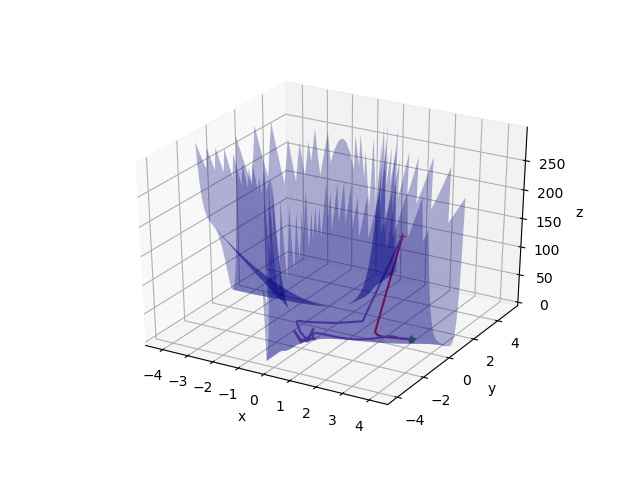
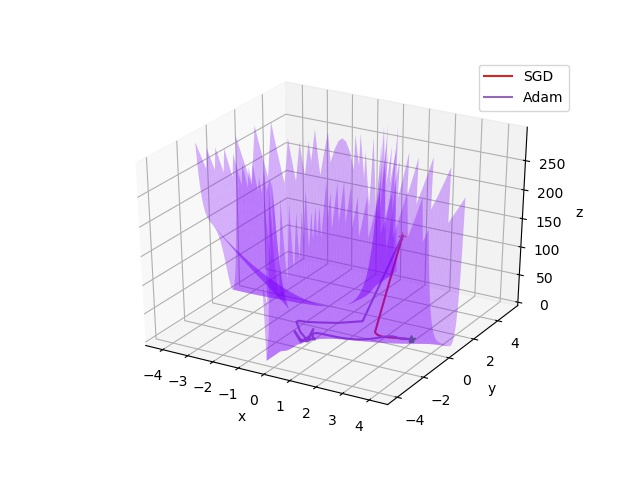
readme新增图示 & 图片新增legend

Changed region(s): [[0.2812, 0.2812, 0.75, 0.75], [0.75, 0.125, 0.875, 0.2188]]

diff --git a/core.py b/core.py
@@ -1,4 +1,3 @@
-# !/Applications/anaconda/envs/4PyCharm/bin/python3.4
 # -*- coding: utf-8 -*-
 from functools import partial
 
@@ -39,6 +38,7 @@ class TrajectoryAnimation(animation.FuncAnimation):
 
         self.lines = [ax.plot([], [], label=label, lw=1)[0] for label in trace_dict]
         self.points = [ax.plot([], [], 'o', color=line.get_color())[0] for line in self.lines]
+        plt.legend(loc='upper right')
 
         super(TrajectoryAnimation, self).__init__(fig, self.animate, init_func=self.init_anim,
                                                   frames=frames, interval=interval, blit=blit,
@@ -79,6 +79,7 @@ class TrajectoryAnimation3D(animation.FuncAnimation):
             frames = max(trace.shape[0] for trace in trace_dict.values())
 
         self.lines = [ax.plot([], [], [], label=label, lw=1)[0] for label in trace_dict]
+        plt.legend(loc='upper right')
 
         super(TrajectoryAnimation3D, self).__init__(fig, self.animate, init_func=self.init_anim,
                                                     frames=frames, interval=interval, blit=blit,
@@ -179,9 +180,9 @@ class Problem:
             for name, trace in self.trace_dict.items():
                 coors = [i[:2] for i in trace]
                 ax.plot(*zip(*coors), label=name)
-
+            ax.legend(loc='upper right')
         if save:
-            plt.savefig(f"{self.f.__name__}_二维静态图.jpg")
+            plt.savefig(f"./pics/{self.f.__name__}_二维静态图.jpg")
 
     def show_trace_3d(self, show_trace=True, save=True):
         """展示三维面 & 梯度下降的轨迹"""
@@ -221,24 +222,25 @@ class Problem:
                 x, y, z = trace[:, 0], trace[:, 1], trace[:, 2]
                 line = ax.plot(x, y, z, label=name)[0]
                 line.set_3d_properties(z)
+            ax.legend(loc='upper right')
         if save:
-            plt.savefig(f"{self.f.__name__}_三维静态图.jpg")
+            plt.savefig(f"./pics/{self.f.__name__}_三维静态图.jpg")
 
-    def animation_2d(self, show_static_trace=False):
-        self.show_trace_2d(show_static_trace)  # 默认不展示固定的轨迹
+    def animation_2d(self, show_static_trace=False, save_static_trace=False):
+        self.show_trace_2d(show_static_trace, save_static_trace)  # 默认不展示固定的轨迹
 
         ax = plt.gca()
         fps = 30
-        save_file = f"{self.f.__name__}_二维动态图.gif"
+        save_file = f"./pics/{self.f.__name__}_二维动态图.gif"
         anim = TrajectoryAnimation(self.trace_dict, ax=ax, interval=1000 // fps)
         anim.save(save_file, fps=fps, writer='PillowWriter')
 
-    def animation_3d(self, show_static_trace=False):
-        self.show_trace_3d(show_static_trace)  # 默认不展示固定的轨迹
+    def animation_3d(self, show_static_trace=False, save_static_trace=False):
+        self.show_trace_3d(show_static_trace, save_static_trace)  # 默认不展示固定的轨迹
 
         ax = plt.gca()
         fps = 30
-        save_file = f"{self.f.__name__}_三维动态图.gif"
+        save_file = f"./pics/{self.f.__name__}_三维动态图.gif"
         anim = TrajectoryAnimation3D(self.trace_dict, ax=ax, interval=1000 // fps)
         anim.save(save_file, fps=fps, writer='PillowWriter')
 
@@ -275,7 +277,7 @@ def main():
         bound=[[-4.5, 4.5], [-4.5, 5.5]],
         z_limit=[0, 300],  # 如果bound和grid_step选择不恰当，使得Z轴过长，而梯度下降轨迹在Z轴太短，会以为梯度下降在一个平面内，故取Z轴截断
         grid_step=0.1,
-        train_step=1000,
+        train_step=100,
         fig=FIG,
         optimizer_fn_dict=optimizer_fn_dict)
     problem.train()
@@ -283,7 +285,7 @@ def main():
     # problem.show_trace_3d()
     # problem.animation_2d()
     # problem.animation_3d()
-    plt.legend(loc='upper right')
+    # plt.legend(loc='upper right')
     plt.show()
 
 

diff --git a/problem.py b/problem.py
@@ -1,4 +1,3 @@
-# !/Applications/anaconda/envs/4PyCharm/bin/python3.4
 # -*- coding: utf-8 -*-
 
 """A valley"""

diff --git a/readme.md b/readme.md
@@ -36,8 +36,18 @@ def main():
 最后运行
  ```
 python core.py
-```
+ ```
 即可。
 Problem.py中存放着一些有趣的二元函数，你也可以使用最简单的二元二次函数。
 
 目前图还做得不太美观，欢迎提建议。
+
+## 示例
+### 二维静态图
+![二维静态图](https://github.com/FrankHui/viz_torch_optim/blob/master/pics/beales_%E4%BA%8C%E7%BB%B4%E9%9D%99%E6%80%81%E5%9B%BE.jpg)
+### 三维静态图
+![二维动态图](https://github.com/FrankHui/viz_torch_optim/blob/master/pics/beales_%E4%B8%89%E7%BB%B4%E9%9D%99%E6%80%81%E5%9B%BE.jpg)
+### 二维动态图
+![三维静态图](https://github.com/FrankHui/viz_torch_optim/blob/master/pics/beales_%E4%BA%8C%E7%BB%B4%E5%8A%A8%E6%80%81%E5%9B%BE.gif)
+### 三维动态图
+![三维动态图](https://github.com/FrankHui/viz_torch_optim/blob/master/pics/beales_%E4%B8%89%E7%BB%B4%E5%8A%A8%E6%80%81%E5%9B%BE.gif)
